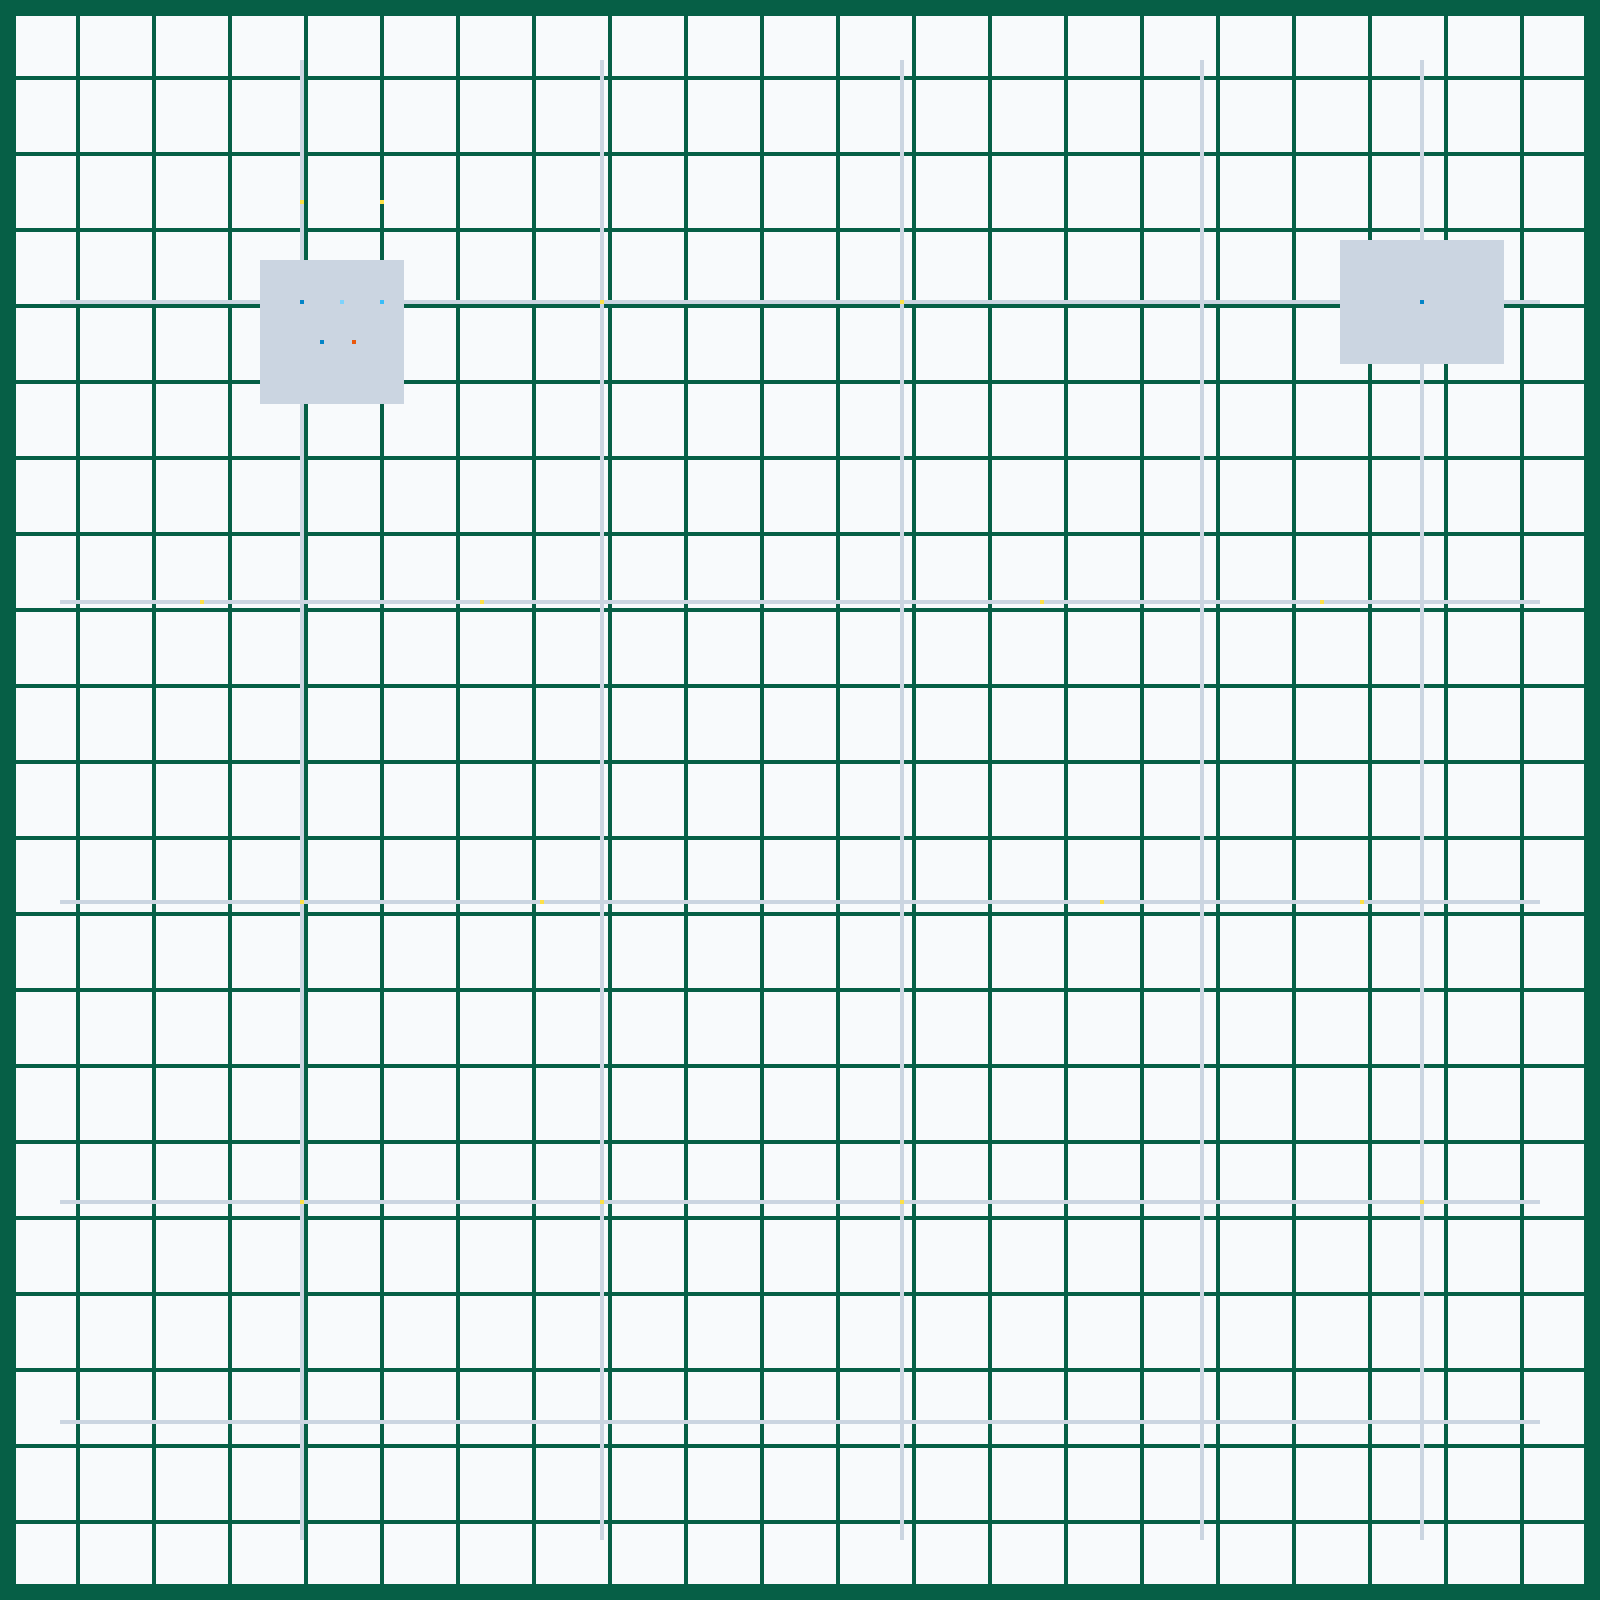
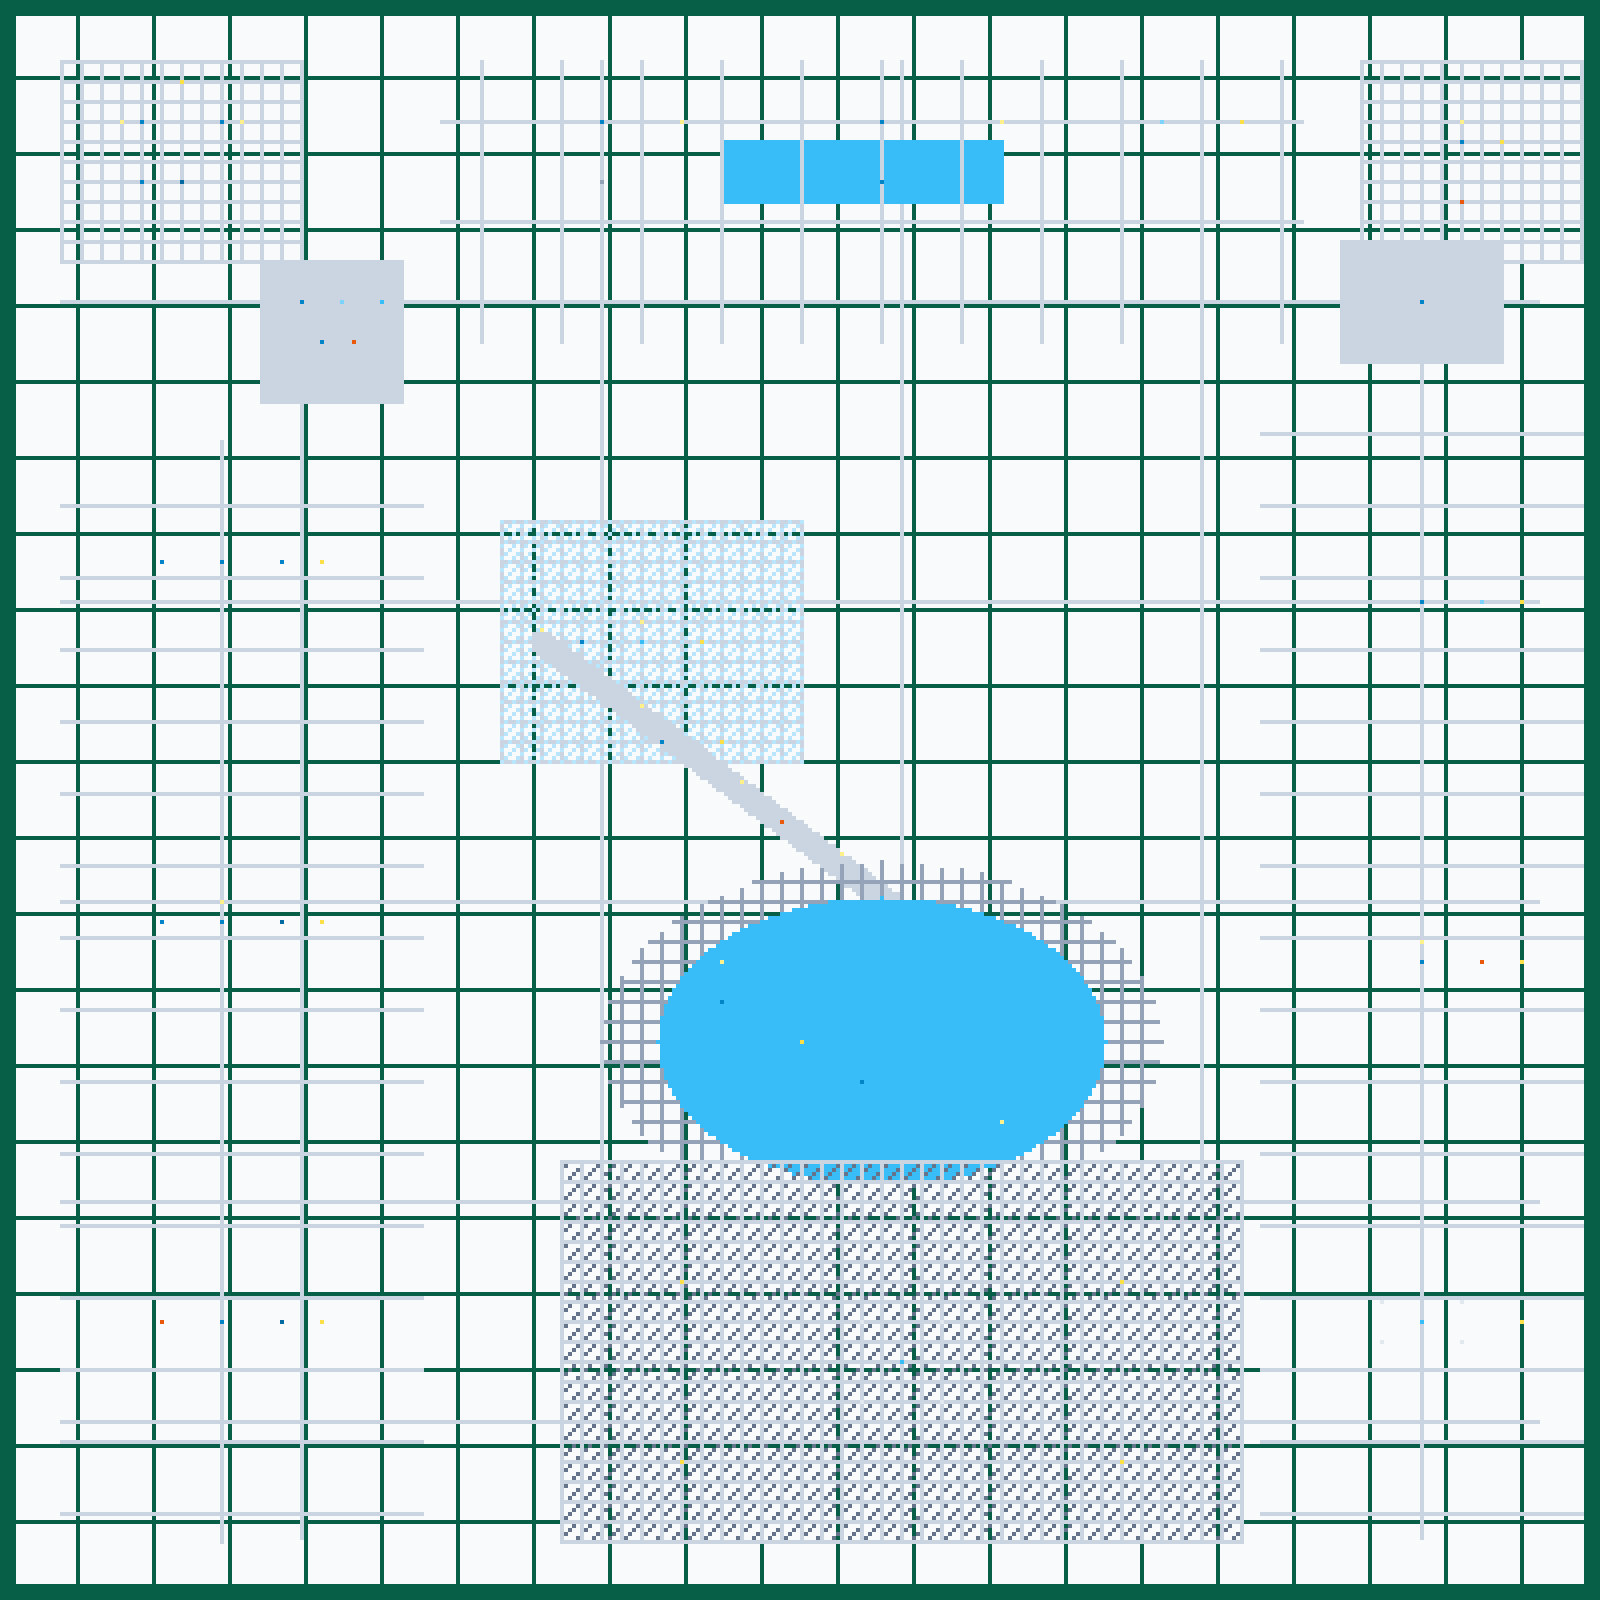
feat: populate Map 5 frozen peaks with nordic clans, ice lakes, avalanche passes, and 13 new NPCs

diff --git a/src/data/zonesData.ts b/src/data/zonesData.ts
@@ -1293,6 +1293,188 @@ export const ZONES: Zone[] = [
         tip: '💡 CONSEJO GLACIAL: Las magias de Fuego causan daño doble sobre los gigantes de hielo.',
         quest: ALL_GAME_QUESTS.find((q) => q.id === 'q_main_tundra_1'),
       },
+      {
+        id: 'npc_tundra_wind_scout',
+        zoneId: 'zone_tundra',
+        x: 35,
+        y: 30,
+        name: 'Explorador Einar',
+        title: 'Vigía del Ventisquero Norte',
+        avatarStyle: 'scout',
+        dialogue: [
+          '¡El viento polar azota con fuerza en estas cumbres! Las chimeneas de nuestras cabañas no se apagan nunca.',
+          'Si caminas sobre la nieve endurecida podrás evitar las trampas de hielo fino.'
+        ],
+        tip: '💡 CONSEJO DE VENTISQUERO: Las capas de piel de oso reducen en un 50% el daño por congelación.',
+      },
+      {
+        id: 'npc_tundra_ice_sentinel',
+        zoneId: 'zone_tundra',
+        x: 365,
+        y: 35,
+        name: 'Centinela Gunnar',
+        title: 'Guardián de los Glaciares Eternos',
+        avatarStyle: 'knight',
+        dialogue: [
+          'Desde esta atalaya vigilo las murallas de la Fortaleza del Titán Ymir.',
+          'Solo aquellos armados con llamas vivientes pueden derretir las defensas de escarcha del titán.'
+        ],
+        tip: '💡 CONSEJO DE FORTALEZA: Las armas imbuidas con fuego rompen los escudos glaciares de Ymir.',
+      },
+      {
+        id: 'npc_tundra_mammoth_hunter',
+        zoneId: 'zone_tundra',
+        x: 150,
+        y: 30,
+        name: 'Maestro Cazador Bjorn',
+        title: 'Rastreador del Gran Valle Glaciar',
+        avatarStyle: 'scout',
+        dialogue: [
+          '¡Rastreamos mamuts lanudos y lobos del cero absoluto por todo este valle blanco!',
+          'En nuestro molino de nieve procesamos harina de líquenes para alimentar a las aldeas nórdicas.'
+        ],
+        tip: '💡 CONSEJO DE CAZA: Los lobos árticos son vulnerables a ataques físicos cargados.',
+      },
+      {
+        id: 'npc_tundra_lumberjack',
+        zoneId: 'zone_tundra',
+        x: 55,
+        y: 140,
+        name: 'Leñador Leif',
+        title: 'Cortador de Pinos Nevados',
+        avatarStyle: 'blacksmith',
+        dialogue: [
+          'La madera de pino nevado es densa y flexible, ideal para construir arcos largos y mástiles de barcos.',
+          'Nuestras fogatas de resina arden sin humo incluso a treinta grados bajo cero.'
+        ],
+        tip: '💡 CONSEJO DE PINO: Los arcos de pino nevado tienen un 20% más de alcance y velocidad.',
+      },
+      {
+        id: 'npc_tundra_tavernkeeper',
+        zoneId: 'zone_tundra',
+        x: 55,
+        y: 230,
+        name: 'Tabernera Sigrid',
+        title: 'Patrona del Fiordo Helado',
+        avatarStyle: 'wizard',
+        dialogue: [
+          '¡Bienvenido al Fiordo, viajero! Siéntate junto al fuego y bebe un cuerno de hidromiel caliente.',
+          'Nuestra forja nórdica templa hachas de guerra capaces de quebrar bloques de hielo milenario.'
+        ],
+        tip: '💡 CONSEJO DE FIORDO: El hidromiel de Frostfall incrementa la fuerza física durante 3 combates.',
+      },
+      {
+        id: 'npc_tundra_winter_blacksmith',
+        zoneId: 'zone_tundra',
+        x: 55,
+        y: 330,
+        name: 'Herrero Torvald',
+        title: 'Armero del Acero Glacial',
+        avatarStyle: 'blacksmith',
+        dialogue: [
+          'Forjamos acero endurecido al hielo. Nuestras espadas conservan un filo helado que congela las heridas.',
+          'En el bastión sur descansan los campeones que defienden la frontera de la Ciudadela Imperial.'
+        ],
+        tip: '💡 CONSEJO DE FORJA: Las espadas de acero glacial ralentizan la velocidad de los enemigos en un 25%.',
+      },
+      {
+        id: 'npc_tundra_ice_sculptor',
+        zoneId: 'zone_tundra',
+        x: 355,
+        y: 150,
+        name: 'Escultor Einar',
+        title: 'Artesano del Hielo Puro',
+        avatarStyle: 'wizard',
+        dialogue: [
+          'Esculpo gemas y dagas directamente de bloques de hielo azul transparente.',
+          'El hielo de estas cordilleras orientales nunca se derrite, pues está imbuido de magia ártica.'
+        ],
+        tip: '💡 CONSEJO DE ESCULTURA: Las dagas de hielo puro aumentan el daño crítico mágico en un 40%.',
+      },
+      {
+        id: 'npc_tundra_sled_master',
+        zoneId: 'zone_tundra',
+        x: 355,
+        y: 240,
+        name: 'Maestro Sven',
+        title: 'Guía de Trineos de Montaña',
+        avatarStyle: 'scout',
+        dialogue: [
+          '¡Mis trineos tirados por perros nórdicos abastecen de pescado y pieles a todas las cumbres!',
+          'Hacia el sur se erige el Altar del Viento Polar, donde los antiguos rezaban para aplacar las tormentas.'
+        ],
+        tip: '💡 CONSEJO DE TRINEOS: Los puestos de suministros cuentan con alimentos de curación rápida.',
+      },
+      {
+        id: 'npc_tundra_polar_druid',
+        zoneId: 'zone_tundra',
+        x: 355,
+        y: 330,
+        name: 'Druida Freydis',
+        title: 'Sacerdotisa del Viento Polar',
+        avatarStyle: 'wizard',
+        dialogue: [
+          'El viento polar susurra los secretos de los dioses nórdicos.',
+          'El Altar de Escarcha confiere bendiciones de inmunidad a las ventiscas y heladas.'
+        ],
+        tip: '💡 CONSEJO POLAR: Meditar en los altares de hielo restaura completamente la energía de maná.',
+      },
+      {
+        id: 'npc_tundra_crystal_gatherer',
+        zoneId: 'zone_tundra',
+        x: 145,
+        y: 160,
+        name: 'Recolectora Ingrid',
+        title: 'Hortelana de las Flores de Nieve',
+        avatarStyle: 'wizard',
+        dialogue: [
+          'En esta meseta crecen las rarísimas flores de escarcha. Sus pétalos brillan con destellos de zafiro.',
+          'Con ellos elaboramos ungüentos que descongelan miembros entumecidos en segundos.'
+        ],
+        tip: '💡 CONSEJO BOTÁNICO: Las flores de escarcha son ingredientes vitales para elixires legendarios.',
+      },
+      {
+        id: 'npc_tundra_pass_ranger',
+        zoneId: 'zone_tundra',
+        x: 165,
+        y: 185,
+        name: 'Guardabosques Olaf',
+        title: 'Vigilante del Paso de las Avalanchas',
+        avatarStyle: 'knight',
+        dialogue: [
+          '¡Pisa con cuidado en el desfiladero! El eco de un grito fuerte puede provocar una avalancha de nieve.',
+          'Nuestros puentes de piedra reforzada están anclados a la roca viva para mayor seguridad.'
+        ],
+        tip: '💡 CONSEJO DEL PASO: Las calzadas reforzadas te guían a través de los abismos sin peligro.',
+      },
+      {
+        id: 'npc_tundra_lake_fisher',
+        zoneId: 'zone_tundra',
+        x: 180,
+        y: 250,
+        name: 'Pescador Ragnar',
+        title: 'Navegante del Gran Lago de Hielo Azul',
+        avatarStyle: 'scout',
+        dialogue: [
+          '¡El lago está tan congelado que podemos caminar, patinar y construir iglús sobre su superficie!',
+          'Aquel barco atrapado en el hielo era un drakkar mercante... su bodega aún esconde un cofre valioso.'
+        ],
+        tip: '💡 CONSEJO DE HIELO: Los tablones de madera sobre hielo azul te otorgan tracción y velocidad.',
+      },
+      {
+        id: 'npc_tundra_storm_cryptkeeper',
+        zoneId: 'zone_tundra',
+        x: 225,
+        y: 340,
+        name: 'Custodio Ylva',
+        title: 'Guardián del Templo de la Tormenta Glaciar',
+        avatarStyle: 'elder',
+        dialogue: [
+          'En este templo reposan los Gigantes de Escarcha de la era primigenia.',
+          'Los cuatro cofres árticos contienen reliquias de zafiro custodiadas por columnas de hielo eterno.'
+        ],
+        tip: '💡 CONSEJO DE TEMPLO: Tras derrotar al Titán Ymir, se abrirá la puerta hacia la Ciudadela Imperial.',
+      },
     ],
     enemies: [
       {

diff --git a/src/data/worldMapGenerator400.ts b/src/data/worldMapGenerator400.ts
@@ -1448,13 +1448,145 @@ export function generateTundra400(): {
   }
   map[75][355] = 11;
 
-  const tundraChests = [
-    [75, 50], [95, 50], [150, 75], [225, 75],
-    [50, 150], [120, 150], [260, 150], [330, 150],
-    [75, 225], [135, 225], [275, 225], [340, 225],
-    [75, 300], [150, 300], [225, 300], [355, 300]
-  ];
-  tundraChests.forEach(([cx, cy]) => { map[cy][cx] = 7; });
+  // =========================================================================
+  // 1. MIRADOR DE LOS VENTISQUEROS DEL NORTE (Noroeste: X: 15..75, Y: 15..65)
+  // =========================================================================
+  for (let y = 15; y <= 65; y++) {
+    for (let x = 15; x <= 75; x++) {
+      if (x % 5 === 0 || y % 5 === 0) map[y][x] = 2;
+    }
+  }
+  map[30][35] = 5;  // Refugio de Montaña 1
+  map[30][55] = 5;  // Refugio de Montaña 2
+  map[45][45] = 10; // Forja Ártica
+  map[45][35] = 4;  // Pozo de Nieve
+  map[20][45] = 7;  // Cofre de Hielo Puro
+  map[30][30] = 17; map[30][60] = 17;
+
+  // =========================================================================
+  // 2. ATALAYA DE LOS GLACIARES ETERNOS (Noreste: X: 340..395, Y: 15..65)
+  // =========================================================================
+  for (let y = 15; y <= 65; y++) {
+    for (let x = 340; x <= 395; x++) {
+      if (x % 5 === 0 || y % 5 === 0) map[y][x] = 2;
+    }
+  }
+  map[35][365] = 5;  // Atalaya Glaciar
+  map[50][365] = 19; // Fogata de Escarcha
+  map[35][375] = 7;  // Cofre de Vigías
+  map[30][365] = 17;
+
+  // =========================================================================
+  // 3. GRAN VALLE GLACIAR DE LOS MAMUTS (Norte: X: 110..325, Y: 15..85)
+  // =========================================================================
+  for (let y = 15; y <= 85; y++) {
+    for (let x = 110; x <= 325; x++) {
+      if (y === 30 || y === 55 || x % 20 === 0) map[y][x] = 2;
+      else if (x >= 180 && x <= 250 && y >= 35 && y <= 50) map[y][x] = 3; // Lago helado
+    }
+  }
+  map[30][150] = 5;  // Cabaña Comunal 1
+  map[30][220] = 5;  // Cabaña Comunal 2
+  map[30][290] = 9;  // Lonja del Valle
+  map[45][150] = 6;  // Molino de Viento de Nieve
+  map[45][220] = 4;  // Pozo
+  map[30][310] = 7;  // Cofre del Valle Glaciar
+  map[30][170] = 17; map[30][250] = 17;
+
+  // =========================================================================
+  // 4. RUTA DE LOS CLANES DEL INVIERNO (Oeste: X: 15..105, Y: 110..385)
+  // =========================================================================
+  for (let y = 110; y <= 385; y++) {
+    for (let x = 15; x <= 105; x++) {
+      if (x === 55 || y % 18 === 0) map[y][x] = 2;
+    }
+  }
+  // Aserradero de Pinos (Y: 140)
+  map[140][55] = 5; map[140][70] = 5; map[140][40] = 4; map[140][80] = 7;
+  // Pueblo del Fiordo (Y: 230)
+  map[230][55] = 5; map[230][70] = 10; map[230][40] = 4; map[230][80] = 7; map[225][55] = 17;
+  // Bastión del Invierno (Y: 330)
+  map[330][55] = 5; map[330][70] = 10; map[330][40] = 19; map[330][80] = 7;
+
+  // =========================================================================
+  // 5. CAMINO DE LOS SANTUARIOS DE ESCARCHA (Este: X: 315..395, Y: 105..380)
+  // =========================================================================
+  for (let y = 105; y <= 380; y++) {
+    for (let x = 315; x <= 395; x++) {
+      if (x === 355 || y % 18 === 0) map[y][x] = 2;
+    }
+  }
+  // Talladores de Hielo (Y: 150)
+  map[150][355] = 5; map[150][370] = 9; map[150][380] = 7;
+  // Puesto de Trineos (Y: 240)
+  map[240][355] = 5; map[240][370] = 19; map[240][380] = 7; map[235][355] = 17;
+  // Altar del Viento Polar (Y: 330)
+  map[330][355] = 8; map[325][345] = 18; map[325][365] = 18; map[335][345] = 18; map[335][365] = 18; map[330][380] = 7;
+
+  // =========================================================================
+  // 6. MESETA DE LOS CRISTALES DE NIEVE (Diagonal 1: X: 125..200, Y: 130..190)
+  // =========================================================================
+  for (let y = 130; y <= 190; y++) {
+    for (let x = 125; x <= 200; x++) {
+      if ((x + y) % 3 === 0) map[y][x] = 12; // Flores de escarcha
+      else if (x % 5 === 0 || y % 5 === 0) map[y][x] = 2;
+    }
+  }
+  map[160][160] = 8;  // Santuario de Escarcha
+  map[160][145] = 5;  // Cabaña de Nieve
+  map[160][175] = 7;  // Cofre de Zafiros
+  map[155][160] = 17;
+
+  // =========================================================================
+  // 7. PASO DEL DESFILADERO DE LAS AVALANCHAS (Diagonal 2: X: 125..265, Y: 150..250)
+  // =========================================================================
+  for (let i = 0; i <= 100; i++) {
+    const vx = 135 + i;
+    const vy = 160 + Math.round(i * 0.75);
+    for (let dy = -2; dy <= 2; dy++) {
+      for (let dx = -2; dx <= 2; dx++) {
+        map[vy + dy][vx + dx] = 2;
+      }
+    }
+    if (i % 25 === 0) map[vy - 3][vx] = 17;
+  }
+  map[185][165] = 5;  // Puesto de Control 1
+  map[225][225] = 5;  // Puesto de Control 2
+  map[205][195] = 19; // Gran Fogata Ártica
+  map[185][180] = 7;  // Cofre del Desfiladero
+
+  // =========================================================================
+  // 8. GRAN LAGO DE HIELO AZUL Y BARCO CONGELADO (Diagonal 3: X: 135..305, Y: 200..320)
+  // =========================================================================
+  for (let y = 200; y <= 320; y++) {
+    for (let x = 135; x <= 305; x++) {
+      const d = Math.hypot((x - 220) / 70, (y - 260) / 45);
+      if (d <= 0.8) {
+        map[y][x] = 3; // Lago helado puro
+      } else if (d <= 1.0) {
+        if (x % 5 === 0 || y % 5 === 0) map[y][x] = 15; // Tablones sobre hielo
+      }
+    }
+  }
+  map[250][180] = 5;  // Iglú / Cabaña de Hielo 1
+  map[290][250] = 5;  // Iglú / Cabaña de Hielo 2
+  map[270][215] = 4;  // Pozo de Agua Pura
+  map[260][200] = 7;  // Cofre del Barco Congelado
+  map[240][180] = 17; map[280][250] = 17;
+
+  // =========================================================================
+  // 9. RUINAS DEL TEMPLO DE LA TORMENTA GLACIAR (Diagonal 4: X: 140..310, Y: 290..385)
+  // =========================================================================
+  for (let y = 290; y <= 385; y++) {
+    for (let x = 140; x <= 310; x++) {
+      if (x % 5 === 0 || y % 5 === 0) map[y][x] = 2;
+      else if ((x + y) % 4 === 0) map[y][x] = 16; // Lápidas rúnicas
+    }
+  }
+  map[340][225] = 8;  // Gran Mausoleo de la Tormenta
+  map[330][215] = 18; map[330][235] = 18; map[350][215] = 18; map[350][235] = 18; // Columnas de hielo
+  // 4 Cofres Árticos
+  map[320][170] = 7; map[320][280] = 7; map[365][170] = 7; map[365][280] = 7;
 
   return {
     tileData: map,
